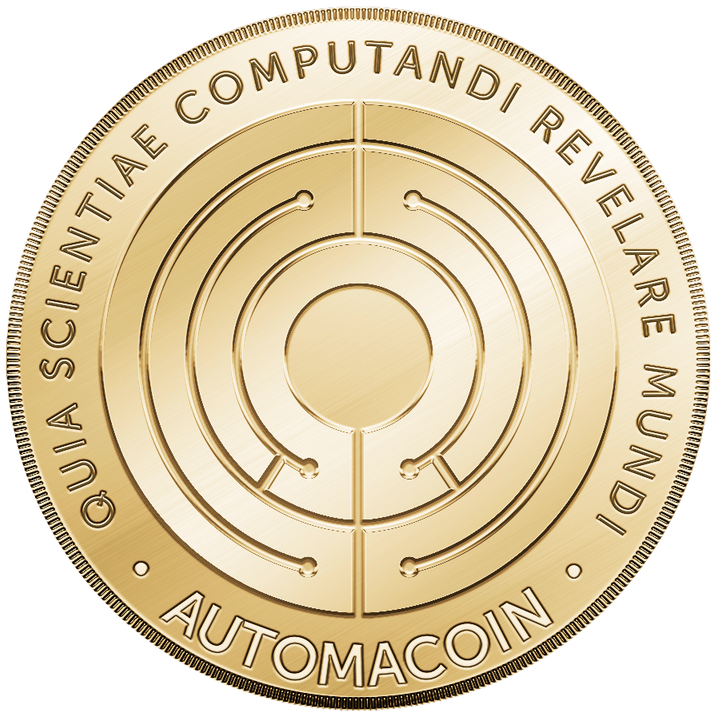
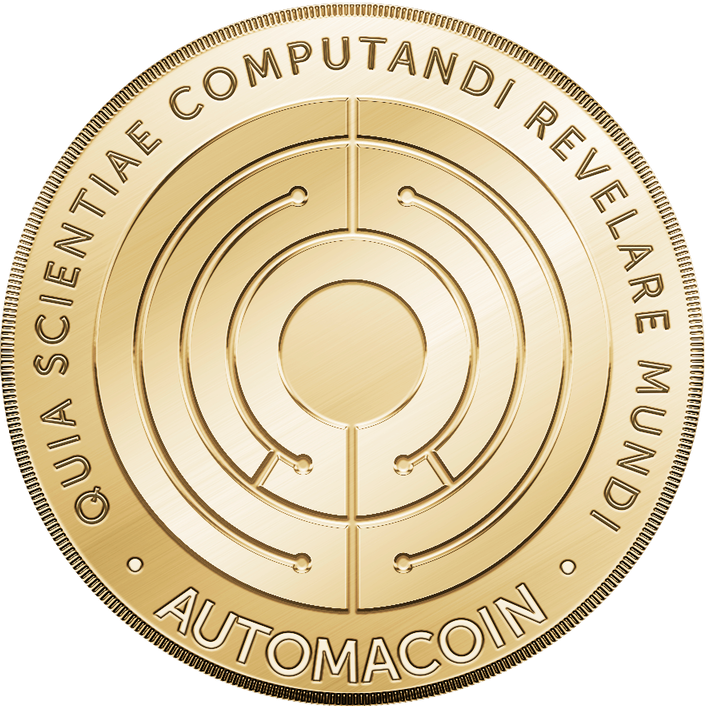
modified rendering of the coin

diff --git a/src/index.js b/src/index.js
@@ -57,7 +57,7 @@ const metalness = 0.5;
 const roughness = 0.2;
 
 
-var geometry = new THREE.CylinderGeometry(7, 7, .8 , 100);
+var geometry = new THREE.CylinderGeometry(7, 7, .6 , 100);
 
 var materials = [
     new THREE.MeshStandardMaterial({
@@ -83,15 +83,15 @@ var materials = [
 var cylinder = new THREE.Mesh(geometry, materials);
 scene.add(cylinder);
 
-camera.position.z = 20;
+camera.position.z = 25;
 
 var id;
 var animate = function () {
     id = requestAnimationFrame(animate);
 
 
-    cylinder.rotation.y += 0.01;
-    cylinder.rotation.x += 0.01;
+    cylinder.rotation.y += 0.0095;
+    cylinder.rotation.x += 0.0065;
 
     renderer.render(scene, camera);
 };
